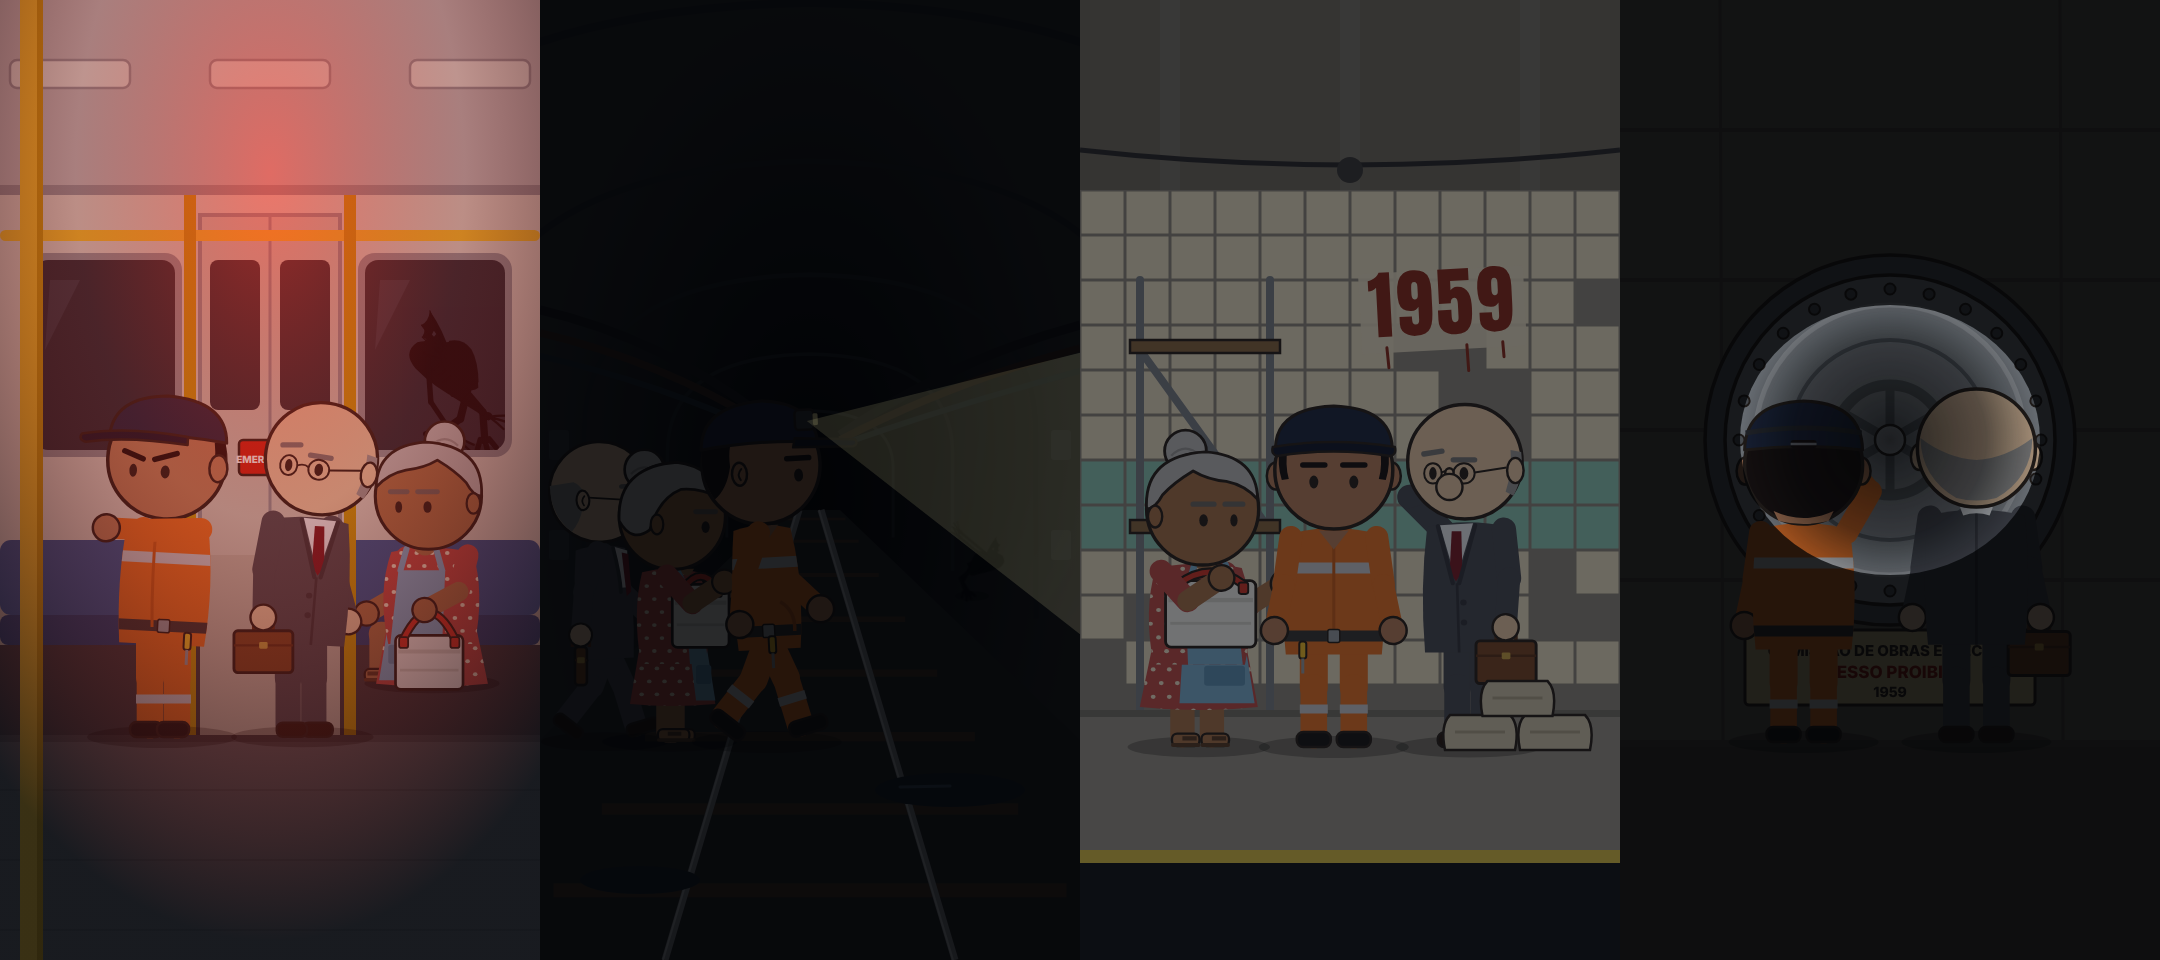
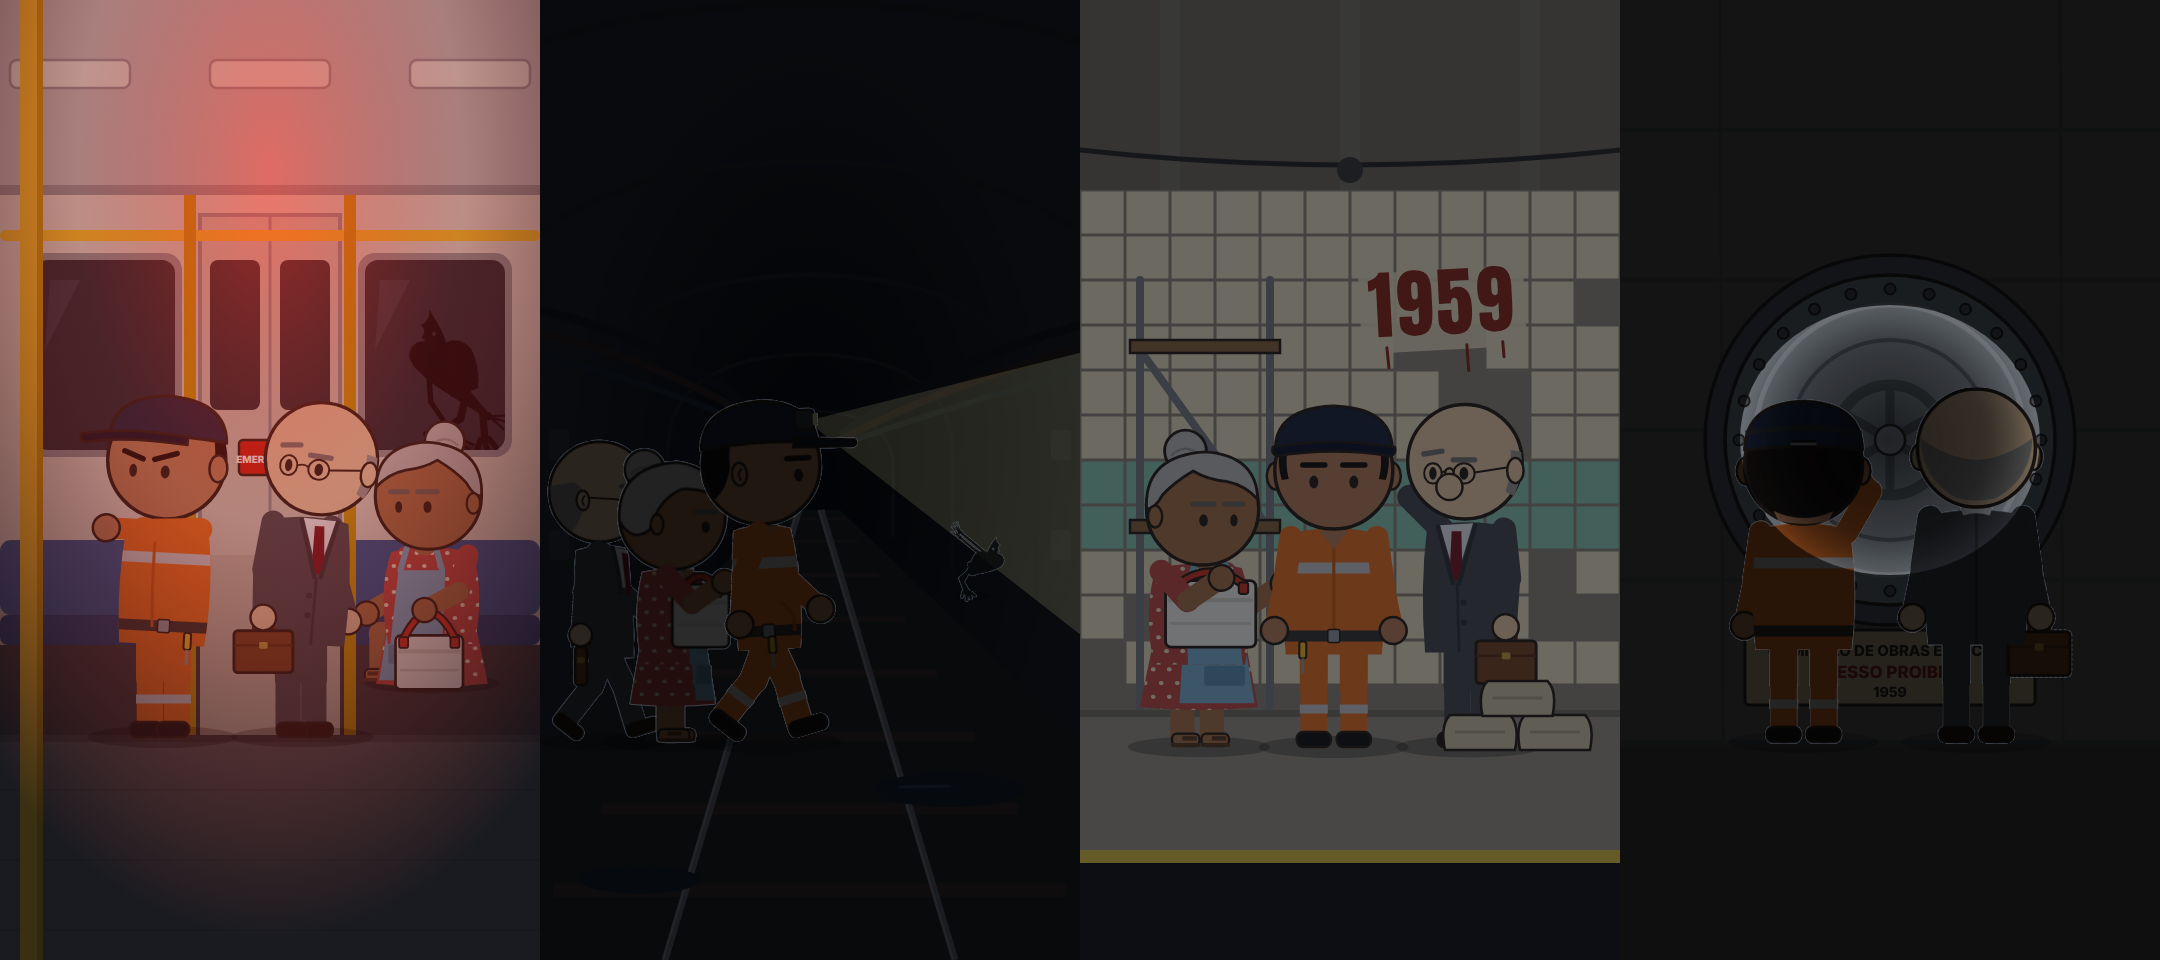
render:plano com RENDER_QUALIDADE (draft/looks/delivery); prévias dos cenários com a luz nova do túnel
Claude-Session: https://claude.ai/code/session_01S2S39rNz3Zw5dBkBvfTeQN

Changed region(s): [[0.8995, 0.4062, 0.9616, 0.5312], [0.8065, 0.5, 0.8685, 0.5938], [0.3722, 0.4375, 0.4032, 0.4688]]

diff --git a/scripts/render-plano.ts b/scripts/render-plano.ts
@@ -1,5 +1,6 @@
 // Renderiza planos de um episódio (padrão: o demo do motor) e mede o tempo.
 // Uso: npm run render:plano -- [arquivo.json] [p02 p03…]   (sem ids = episódio inteiro)
+// RENDER_QUALIDADE=draft|looks|delivery (padrão draft), RENDER_WORKERS (padrão 2).
 // Saída: data/renders/<no>[-<ids>].mp4 e um quadro por plano em data/stills/.
 import { spawn } from "node:child_process";
 import { existsSync, mkdirSync, readFileSync, rmSync, statSync } from "node:fs";
@@ -10,6 +11,7 @@ import { validarEpisodio } from "../src/lib/episodio-schema";
 const RAIZ = path.resolve(import.meta.dirname, "..");
 const HF = path.join(RAIZ, "node_modules/.bin/hyperframes");
 const env = { ...process.env, HYPERFRAMES_NO_TELEMETRY: "1", HYPERFRAMES_SKIP_SKILLS: "1" };
+const QUALIDADE = process.env.RENDER_QUALIDADE ?? "draft";
 
 function rodar(cmd: string, args: string[], cwd = RAIZ, eco = true): Promise<string> {
   return new Promise((resolve, reject) => {
@@ -41,7 +43,7 @@ async function main() {
 
   await rodar(HF, ["lint"], dir);
   const t0 = Date.now();
-  await rodar(HF, ["render", "--quality", "draft", "--workers", process.env.RENDER_WORKERS ?? "2", "--output", saida], dir);
+  await rodar(HF, ["render", "--quality", QUALIDADE, "--workers", process.env.RENDER_WORKERS ?? "2", "--output", saida], dir);
   const seg = (Date.now() - t0) / 1000;
   if (!existsSync(saida) || statSync(saida).size === 0) throw new Error("MP4 não foi gerado");
 
@@ -61,7 +63,7 @@ async function main() {
   ];
   console.log("\n— resultado —");
   for (const c of checagens) console.log(`${c.ok ? "✅" : "❌"} ${c.msg}`);
-  console.log(`⏱  render: ${seg.toFixed(1)}s para ${proj.duracao}s de vídeo (${(seg / proj.duracao).toFixed(2)}× tempo real, ${process.env.RENDER_WORKERS ?? "2"} workers)`);
+  console.log(`⏱  render: ${seg.toFixed(1)}s para ${proj.duracao}s de vídeo (${(seg / proj.duracao).toFixed(2)}× tempo real, ${process.env.RENDER_WORKERS ?? "2"} workers, qualidade ${QUALIDADE})`);
   console.log(`📼 ${path.relative(RAIZ, saida)} (${(statSync(saida).size / 1024).toFixed(0)} KB)`);
   for (const s of stills) console.log(`🖼  ${path.relative(RAIZ, s)}`);
   if (checagens.some((c) => !c.ok)) process.exit(1);
